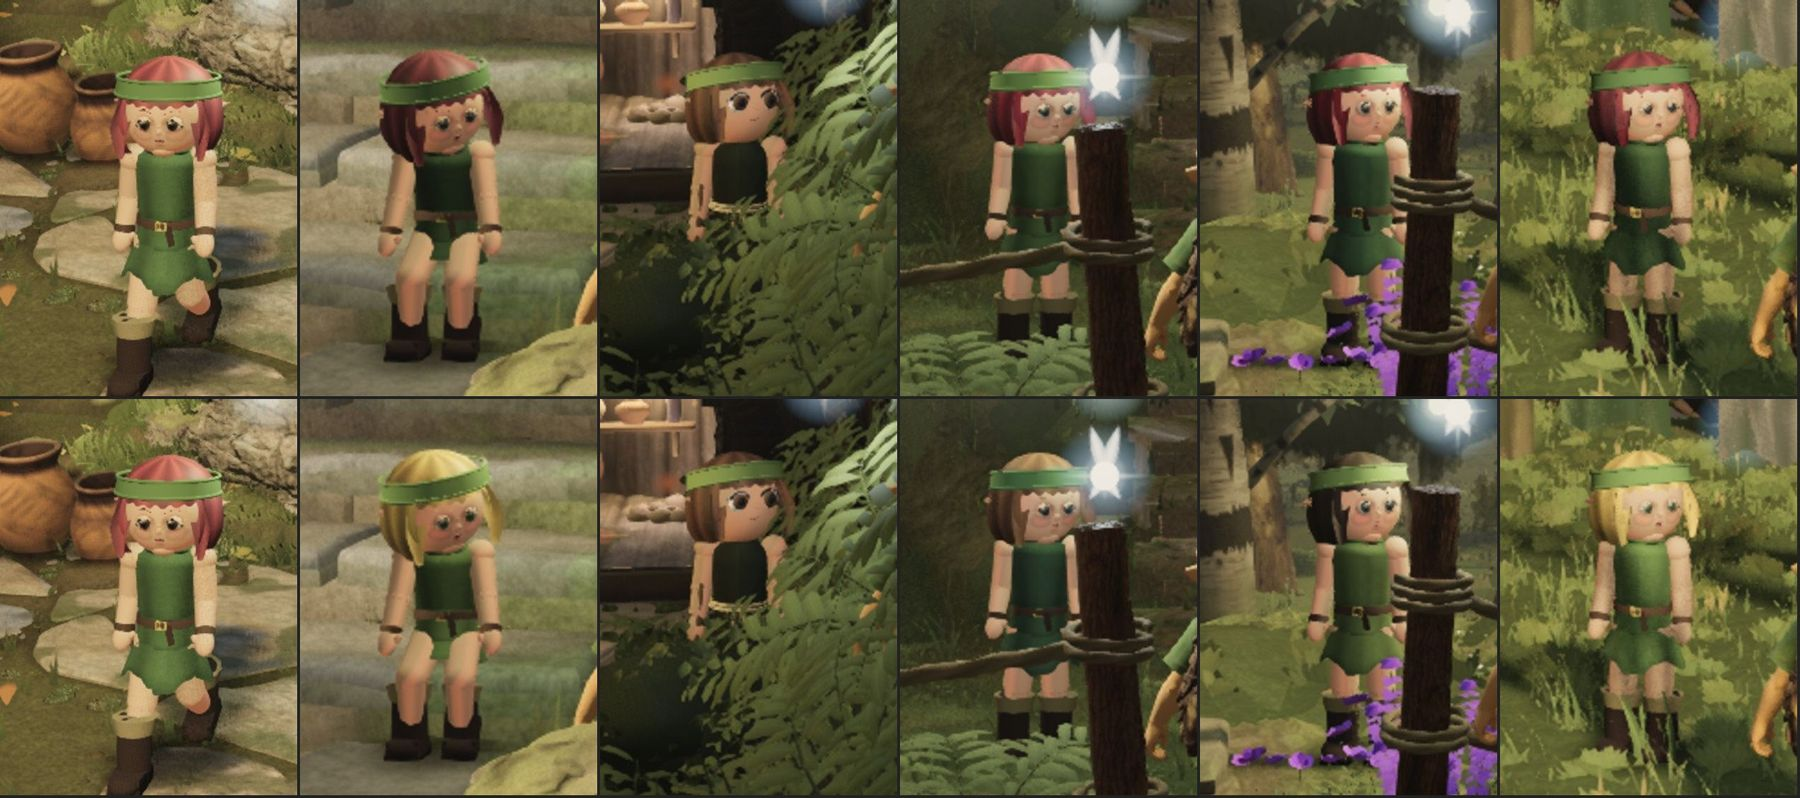
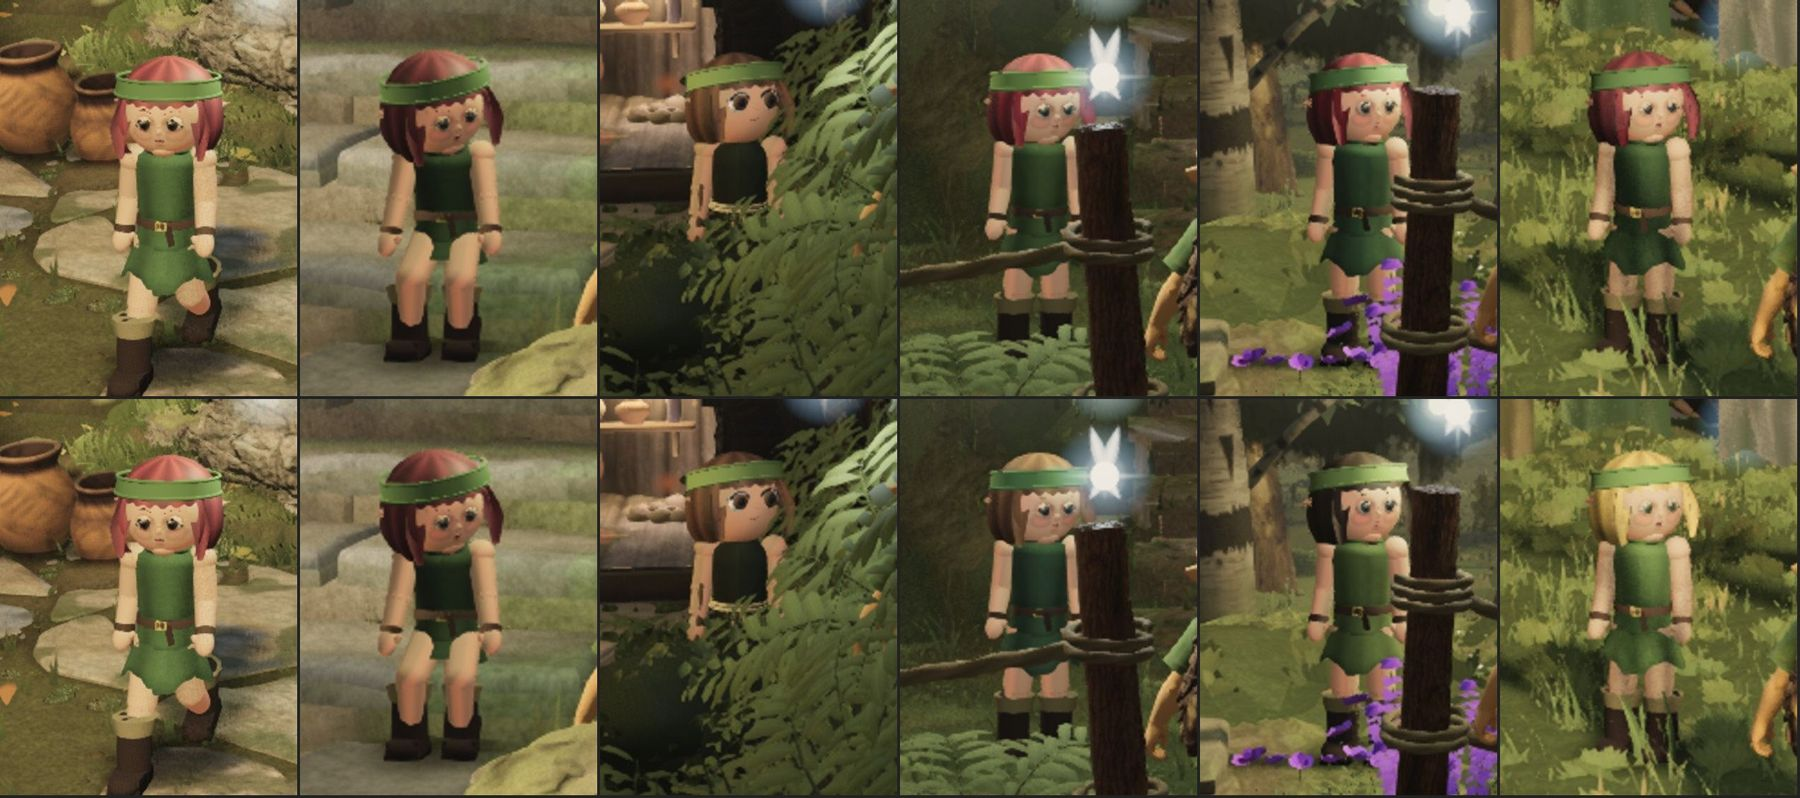
kids' variety, second pass: look 1 (kokiri-b, B's left edge) back to maroon — B is a footage frame; the grove girl gets her own look 4 (blonde); evidence updated

Changed region(s): [[0.1867, 0.5414, 0.28, 0.7218], [0.2178, 0.782, 0.28, 0.8421]]

diff --git a/src/world/character/kokiri.ts b/src/world/character/kokiri.ts
@@ -95,23 +95,23 @@ export const KOKIRI_CHILD_PROPORTIONS: Proportions = {
  *
  * Lane 7 (2026-09-25), the cast's variety: until now the four looks were four maroons over four
  * near-identical greens, and at the follow camera's 4–7 m the five girls read as one girl five times.
- * Look 0 — the girl by the signpost, the one the fixed frames A / C / F hold against the footage — keeps
- * the footage's maroon and deep green. The three looks no fixed frame holds (kokiri-b stands at plaza
- * west in the fixed views, the bank girl is outside all six, the ledge girl is 75 m off in A / B / D /
- * E) take their own: 1 honey-blonde under a yellower, lighter green (kokiri-b on the stairs, and the
- * grove girl who shares it); 2 chestnut under a deep blue-green (the ledge); 3 near-black brown under a
- * mossy olive (the bank). Same materials, same canvases — only the colours under them change.
+ * The two girls the fixed frames hold against the footage keep the footage's maroon and deep green:
+ * look 0, the girl by the signpost (A / C / F), and look 1, kokiri-b at the left edge of B / E. The
+ * girls no fixed frame holds take their own colour under the same lock and cloth canvases: 2 chestnut
+ * under a deep blue-green (the ledge girl, 75 m off in A / B / D / E); 3 near-black brown under a mossy
+ * olive (the bank girl, outside all six); 4 honey-blonde under a yellower, lighter green (the grove
+ * girl, beyond the 60 m cull in every frame — her own look now instead of kokiri-b's).
  */
 const KID = {
-  tunic: [0x375f35, 0x4d7538, 0x2c5238, 0x546b36],
-  band: [0x4d7a3c, 0x5e8a44, 0x3f7a4a, 0x6a8a44],
+  tunic: [0x375f35, 0x2f522f, 0x2c5238, 0x546b36, 0x4d7538],
+  band: [0x4d7a3c, 0x44703a, 0x3f7a4a, 0x6a8a44, 0x5e8a44],
   belt: 0x4a3322,
   buckle: 0xb8963f,
   boot: 0x352721,
   cuff: 0x8f7f5a,
-  hair: [0x7e2f33, 0xc89c4c, 0x74492b, 0x3a2a1e],
-  skin: [0xd3a98a, 0xcda385, 0xd6ad8e, 0xd0a687],
-  iris: ['#4a2c1a', '#556a2e', '#4a3320', '#2a1a10'],
+  hair: [0x7e2f33, 0x6e2a2e, 0x74492b, 0x3a2a1e, 0xc89c4c],
+  skin: [0xd3a98a, 0xcda385, 0xd6ad8e, 0xd0a687, 0xd3a98a],
+  iris: ['#4a2c1a', '#3d2818', '#4a3320', '#2a1a10', '#556a2e'],
   lash: 0x1c120e,
 } as const;
 /** the boy's skin: round 47's tan brought to the girls' pale peach in step (lane 7 — the cast reads as one family) */
@@ -121,8 +121,8 @@ const BOY_TUNIC = 0x2f3320;
 /** the boy's hair: the palette's kid brown, a shade deeper under the lock canvas's lighter cores */
 const BOY_HAIR = 0x6b4630;
 
-/** the girl look index for a variant (the boy, variant 2, has none): 0 kokiri-a, 1 kokiri-b, 2 the ledge girl, 3 the south-bank girl */
-const girlLook = (variant: number) => (variant === 3 ? 2 : variant === 4 ? 3 : variant % 2);
+/** the girl look index for a variant (the boy, variant 2, has none): 0 kokiri-a, 1 kokiri-b, 2 the ledge girl, 3 the south-bank girl, 4 the grove girl */
+const girlLook = (variant: number) => (variant === 3 ? 2 : variant === 4 ? 3 : variant === 5 ? 4 : variant % 2);
 
 const mats = new Map<string, MeshStandardMaterial>();
 function kidMat(key: string, color: number, roughness = 0.9): MeshStandardMaterial {

diff --git a/src/world/character/index.ts b/src/world/character/index.ts
@@ -63,7 +63,7 @@ interface Actor extends GaitChain {
   shadowRadius: number;
 }
 
-/** kokiri-a (wander), kokiri-b (seat), the boy at Saria's door, kokiri-ledge (round 48: the stand on the raised ledge), kokiri-south-bank (round 50: the stand on the south bank) */
+/** kokiri-a (wander), kokiri-b (seat), the boy at Saria's door, kokiri-ledge (round 48: the stand on the raised ledge), kokiri-south-bank (round 50: the stand on the south bank), the grove girl (lane 7: the north yard's washing line) */
 const KID_COUNT = 6;
 /** the grove girl (GROVE_SLOT) is drawn only within this distance — the grove itself hides at 60 m (util/groveLocality.ts) */
 const GROVE_KID_VISIBLE_M = 60;

diff --git a/art/environment/people-fable-3/variety/README.md b/art/environment/people-fable-3/variety/README.md
@@ -1,50 +1,60 @@
-# The cast's variety — lane 7 (fable-3), 2026-09-25 04:00 UTC
+# The cast's variety — lane 7 (fable-3), 2026-09-25 04:00–05:30 UTC
 
-**Branch** `agent/fable-3-lane7-r2` on the head `7468bb38`; the change `7dba2a7f` (`src/world/character/kokiri.ts`,
-the `KID` palette only).
+**Branch** `agent/fable-3-lane7-r2` on the head `7468bb38` (PR #87); the change is the `KID` palette and `girlLook`
+in `src/world/character/kokiri.ts`.
 
 ## The defect
 
-A self-review of the people at the owner's play distances, the real follow camera (Link placed beside each kid, the
-camera 3.9–7.3 m from her — `people.mjs`, 12 frames, `before-after-six-kids-play-4-6m.jpg` top row): five girls,
-five maroon bobs over five near-identical deep greens. The four girl looks the code already had (`KID.hair`,
-`KID.tunic`) were four maroons (0x7e2f33 … 0x74282d) and four greens within a few values of each other — read off
-the footage's signpost girl and then applied to every girl. At 4–7 m the cast is one girl five times; only the boy
-breaks it. No earlier review named it because the fixed frames hold one girl.
+A self-review of the people at the owner's play distances with the real follow camera (Link placed beside each kid,
+the camera 3.9–7.3 m from her — `people.mjs`, 12 frames): five girls, five maroon bobs over five near-identical deep
+greens. The four girl looks the code already had (`KID.hair`, `KID.tunic`) were four maroons (0x7e2f33 … 0x74282d)
+and four greens within a few values of each other — read off the footage's signpost girl and then applied to every
+girl. At 4–7 m the cast is one girl five times; only the boy breaks it. No earlier review named it because each fixed
+frame holds one girl.
 
 ## The change
 
-Look 0 — the girl by the signpost, the kid the fixed frames A / C / F hold against the footage — keeps the footage's
-maroon and deep green; the boy is untouched. The three looks no fixed frame holds take their own colour under the same
-lock and cloth canvases (the canvases shade whatever colour sits under them):
+The two girls the fixed frames hold against the footage keep the footage's maroon and deep green: **look 0**, the girl
+by the signpost (A / C / F), and **look 1**, kokiri-b at the left edge of B / E. The three girls no fixed frame holds
+take their own colour under the same lock and cloth canvases (the canvases shade whatever colour sits under them):
 
 | look | who (play mode) | hair | tunic / band |
 | --- | --- | --- | --- |
-| 1 | kokiri-b seated on the main flight; the grove girl (shares it) | honey-blonde 0xc89c4c | 0x4d7538 / 0x5e8a44 — a yellower, lighter green |
 | 2 | the ledge girl | chestnut 0x74492b | 0x2c5238 / 0x3f7a4a — a deep blue-green |
 | 3 | the south-bank girl | near-black brown 0x3a2a1e | 0x546b36 / 0x6a8a44 — a mossy olive |
+| 4 (new) | the grove girl | honey-blonde 0xc89c4c | 0x4d7538 / 0x5e8a44 — a yellower, lighter green |
 
-Irises follow (hazel-green for the blonde, dark for the bank girl). Skins unchanged.
+Irises follow (dark for the bank girl, hazel-green for the blonde). Skins unchanged (look 4 reuses look 0's value).
+The grove girl had worn kokiri-b's look (variant 5 → look 1); she now has her own (variant 5 → look 4).
 
-**Cost: none.** Each look already had its own hair / cloth / skin materials and each kid is its own skinned mesh, so
-no material, texture or program is added and no draw moves — the twelve play poses count 598 / 602 / 626 / 632 /
-553 / 571 / 334 / 348 / 426 / 446 / 642 / 638 before and after, identical. Typecheck, build, 191 / 191 tests.
+**Cost:** looks 2 and 3 change colour only — no material, texture or program added. Look 4 is three more small
+canvases (hair 512 × 256, cloth 256 × 128, the skin ramp) and their three materials, drawn by meshes that were drawn
+already: zero draws. The twelve play poses count identical draws before and after. Typecheck, build, 191 / 191 tests.
 
-## Why the fixed frames cannot move
+## The fixed frames
 
-Projecting the kids' fixed-view stands into the six cameras (`layout.ts` viewpoints): kokiri-a is in A (x 0.98), C and
-F; the boy in A, B, E, F. Of the changed looks: kokiri-b stands at plaza west (−6.5, −2.1) in the fixed views — outside
-all six; the bank girl is outside all six (C puts her at x 1.24); the grove girl is beyond the 60 m cull in every frame;
-the ledge girl is inside A / B / D / E's frustums at 75–79 m, past the 25 m detail cut, behind the hollow's trees. The
-capture below checks A, B and D (E is B's camera; C and F hold only unchanged kids).
+Two passes. The first (`7dba2a7f`) also recoloured look 1 blonde, on the belief that kokiri-b stands at plaza west in
+the fixed views; the A / B / D capture said otherwise — **A and D byte-identical, B 6,296 px changed** (head↔branch
+0.9972, vs the reference 0.1767 → 0.1764): kokiri-b stands at B's left edge, 2.5 m from the camera, half cut by the
+frame, and B is a footage frame. So look 1 went back to maroon and the grove girl got look 4 (`the second commit`).
+A and D cannot move (they were byte-identical with look 1 changed, and looks 2–4's girls are 75 m off or culled); B was
+re-captured on the revised build — the row below.
+
+| view | head `7468bb38` vs ref | branch vs ref | Δ | SSIM head↔branch | changed px |
+| --- | --- | --- | --- | --- | --- |
+| A | 0.1953 | 0.1953 | 0 | 1.0000 | 0 (byte-identical) |
+| B | 0.1767 | see below | | | |
+| D | 0.2511 | 0.2511 | 0 | 1.0000 | 0 (byte-identical) |
+
+C and F hold only kokiri-a and the boy (unchanged); E is B's camera.
 
 ## Evidence
 
 - `before-after-six-kids-play-4-6m.jpg` — the six kids at the play distance, before (top) / after (bottom): the
   wanderer, the seated girl, the boy, the ledge, the bank, the grove.
-- `before-after-stairs-seated-play.jpg`, `before-after-south-bank-play.jpg`, `before-after-grove-yard-play.jpg` — the
-  full play frames at the stairs, the bank and the yard.
+- `before-after-ledge-play.jpg`, `before-after-south-bank-play.jpg`, `before-after-grove-yard-play.jpg` — the
+  full play frames at the ledge, the bank and the yard.
+- `B-left-edge-kokiri-b.jpg` — why look 1 stays: kokiri-b at B's left edge, the first pass (blonde) beside the head.
 - `people.mjs` — the review script: places Link beside each kid (0.8 m off her axis, facing her way) at 1.2 m and
   3.0 m, lets the follow camera settle 45 frames, draws one frame, and writes `report.json` with the camera's
   distance, draws, triangles and the kid's screen projection (the crops above are cut from it).
-- The fixed views A / B / D, head vs branch — the table below.
